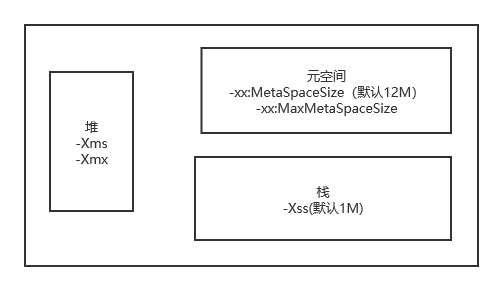
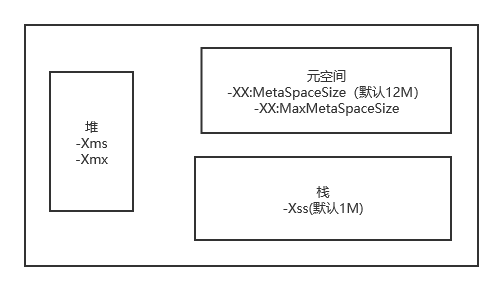
Site updated: 2021-04-03 15:54:49

Changed region(s): [[0.4473, 0.2784, 0.835, 0.4021]]

diff --git a/2021/02/05/jvm-structure/index.html b/2021/02/05/jvm-structure/index.html
@@ -33,7 +33,7 @@
 <meta property="og:image" content="http://example.com/2021/02/05/jvm-structure/jvm%E6%A8%A1%E5%9E%8B.png">
 <meta property="og:image" content="http://example.com/2021/02/05/jvm-structure/jvm%E8%BF%90%E8%A1%8C%E6%97%B6%E6%95%B0%E6%8D%AE%E5%8C%BA.png">
 <meta property="article:published_time" content="2021-02-05T14:38:16.000Z">
-<meta property="article:modified_time" content="2021-04-03T07:28:03.588Z">
+<meta property="article:modified_time" content="2021-04-03T07:54:35.744Z">
 <meta property="article:author" content="lee">
 <meta name="twitter:card" content="summary">
 <meta name="twitter:image" content="http://example.com/2021/02/05/jvm-structure/jvm%E6%A8%A1%E5%9E%8B.png">
@@ -241,7 +241,7 @@
           <i class="far fa-calendar-check"></i>
         </span>
         <span class="post-meta-item-text">Edited on</span>
-        <time title="Modified: 2021-04-03 15:28:03" itemprop="dateModified" datetime="2021-04-03T15:28:03+08:00">2021-04-03</time>
+        <time title="Modified: 2021-04-03 15:54:35" itemprop="dateModified" datetime="2021-04-03T15:54:35+08:00">2021-04-03</time>
       </span>
     <span class="post-meta-item">
       <span class="post-meta-item-icon">
@@ -266,7 +266,7 @@
     <div class="post-body" itemprop="articleBody">
         <h3 id="jvm整体结构"><a href="#jvm整体结构" class="headerlink" title="jvm整体结构"></a>jvm整体结构</h3><p><img src="/2021/02/05/jvm-structure/jvm%E6%A8%A1%E5%9E%8B.png" alt="jvm模型"></p>
 <h3 id="gc回收过程"><a href="#gc回收过程" class="headerlink" title="gc回收过程"></a>gc回收过程</h3><p>从gc root（元空间，栈对象的引用）出发，向上查找，直到这个对象没有被引用，则直接回收掉，没有的则放到survior区。一次minorGc,suvivor区的对象年龄+1，到15的时候则放到老年代。老年代放满(可设置比例)的时候则出发fullGc。<br>？suvivor区为什么要设置俩个<br>跟垃圾回收算法有关，这里采用的是内存复制算法，存活的对象复制到另一边（减少垃圾碎片）</p>
-<h3 id="jvm运行时数据区"><a href="#jvm运行时数据区" class="headerlink" title="jvm运行时数据区"></a>jvm运行时数据区</h3><p><img src="/2021/02/05/jvm-structure/jvm%E8%BF%90%E8%A1%8C%E6%97%B6%E6%95%B0%E6%8D%AE%E5%8C%BA.png"></p>
+<h3 id="jvm运行时数据区"><a href="#jvm运行时数据区" class="headerlink" title="jvm运行时数据区"></a>jvm运行时数据区</h3><p><img src="/2021/02/05/jvm-structure/jvm%E8%BF%90%E8%A1%8C%E6%97%B6%E6%95%B0%E6%8D%AE%E5%8C%BA.png"><br>说明：-XX:MetaSpaceSize 设置元空间大小，默认21M，如果超过则会出发fullGc.然后会自动调整元空间大小不超过最大值。如果项目启动时候频繁发生大量fullGc,可以排查下元空间是不是太小了。一般建议将俩个值设置成一样大小的，例如8g内存，设置成256M。</p>
 
     </div>
 

diff --git a/index.html b/index.html
@@ -406,7 +406,7 @@
           <i class="far fa-calendar-check"></i>
         </span>
         <span class="post-meta-item-text">Edited on</span>
-        <time title="Modified: 2021-04-03 15:28:03" itemprop="dateModified" datetime="2021-04-03T15:28:03+08:00">2021-04-03</time>
+        <time title="Modified: 2021-04-03 15:54:35" itemprop="dateModified" datetime="2021-04-03T15:54:35+08:00">2021-04-03</time>
       </span>
     <span class="post-meta-item">
       <span class="post-meta-item-icon">
